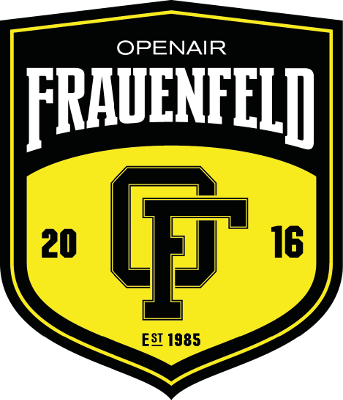
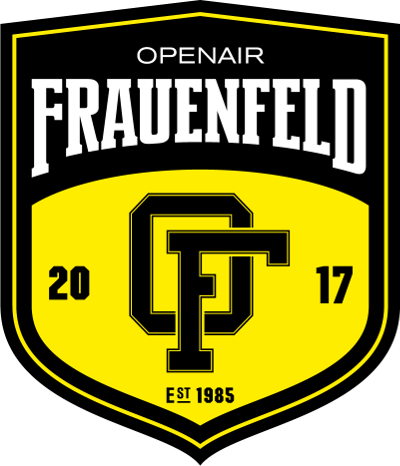
Prepare for OAF17

diff --git a/app.js b/app.js
@@ -17,6 +17,7 @@ require('mkdirp').sync(signatureDir);
 
 app.set('views', __dirname + '/views');
 app.set('view engine', 'pug');
+app.set('title', config.title);
 app.use(express.static(__dirname + '/public'));
 
 server.listen(9000);
